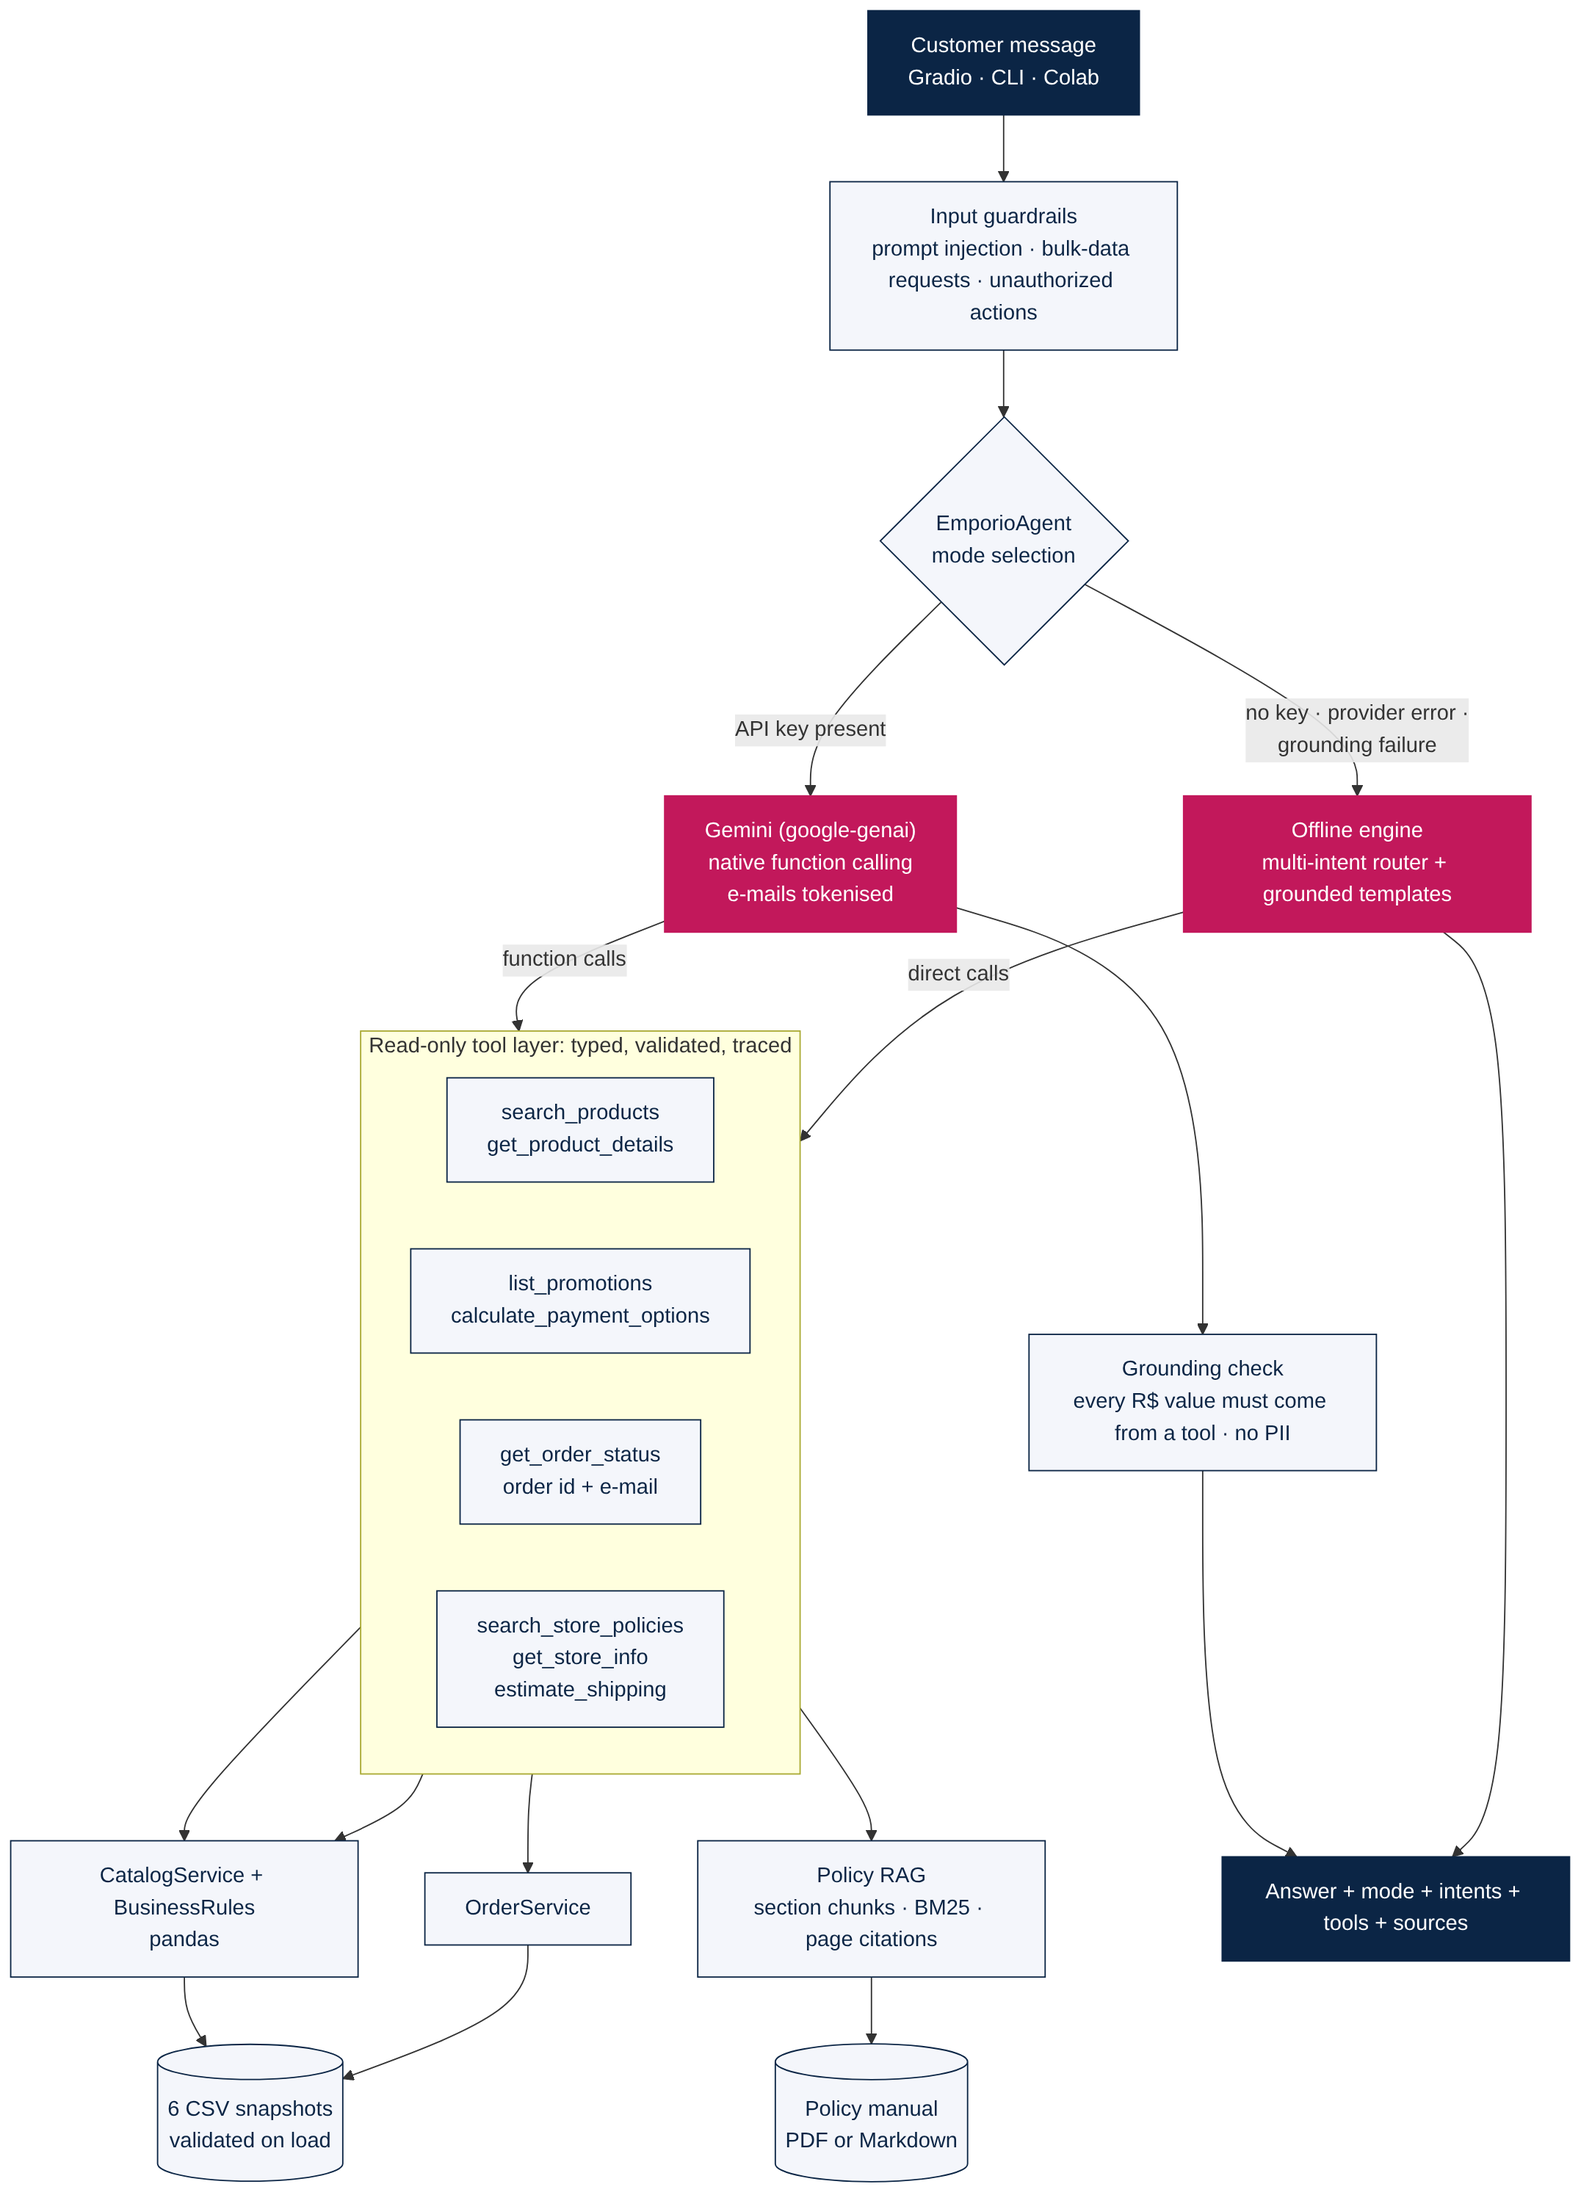
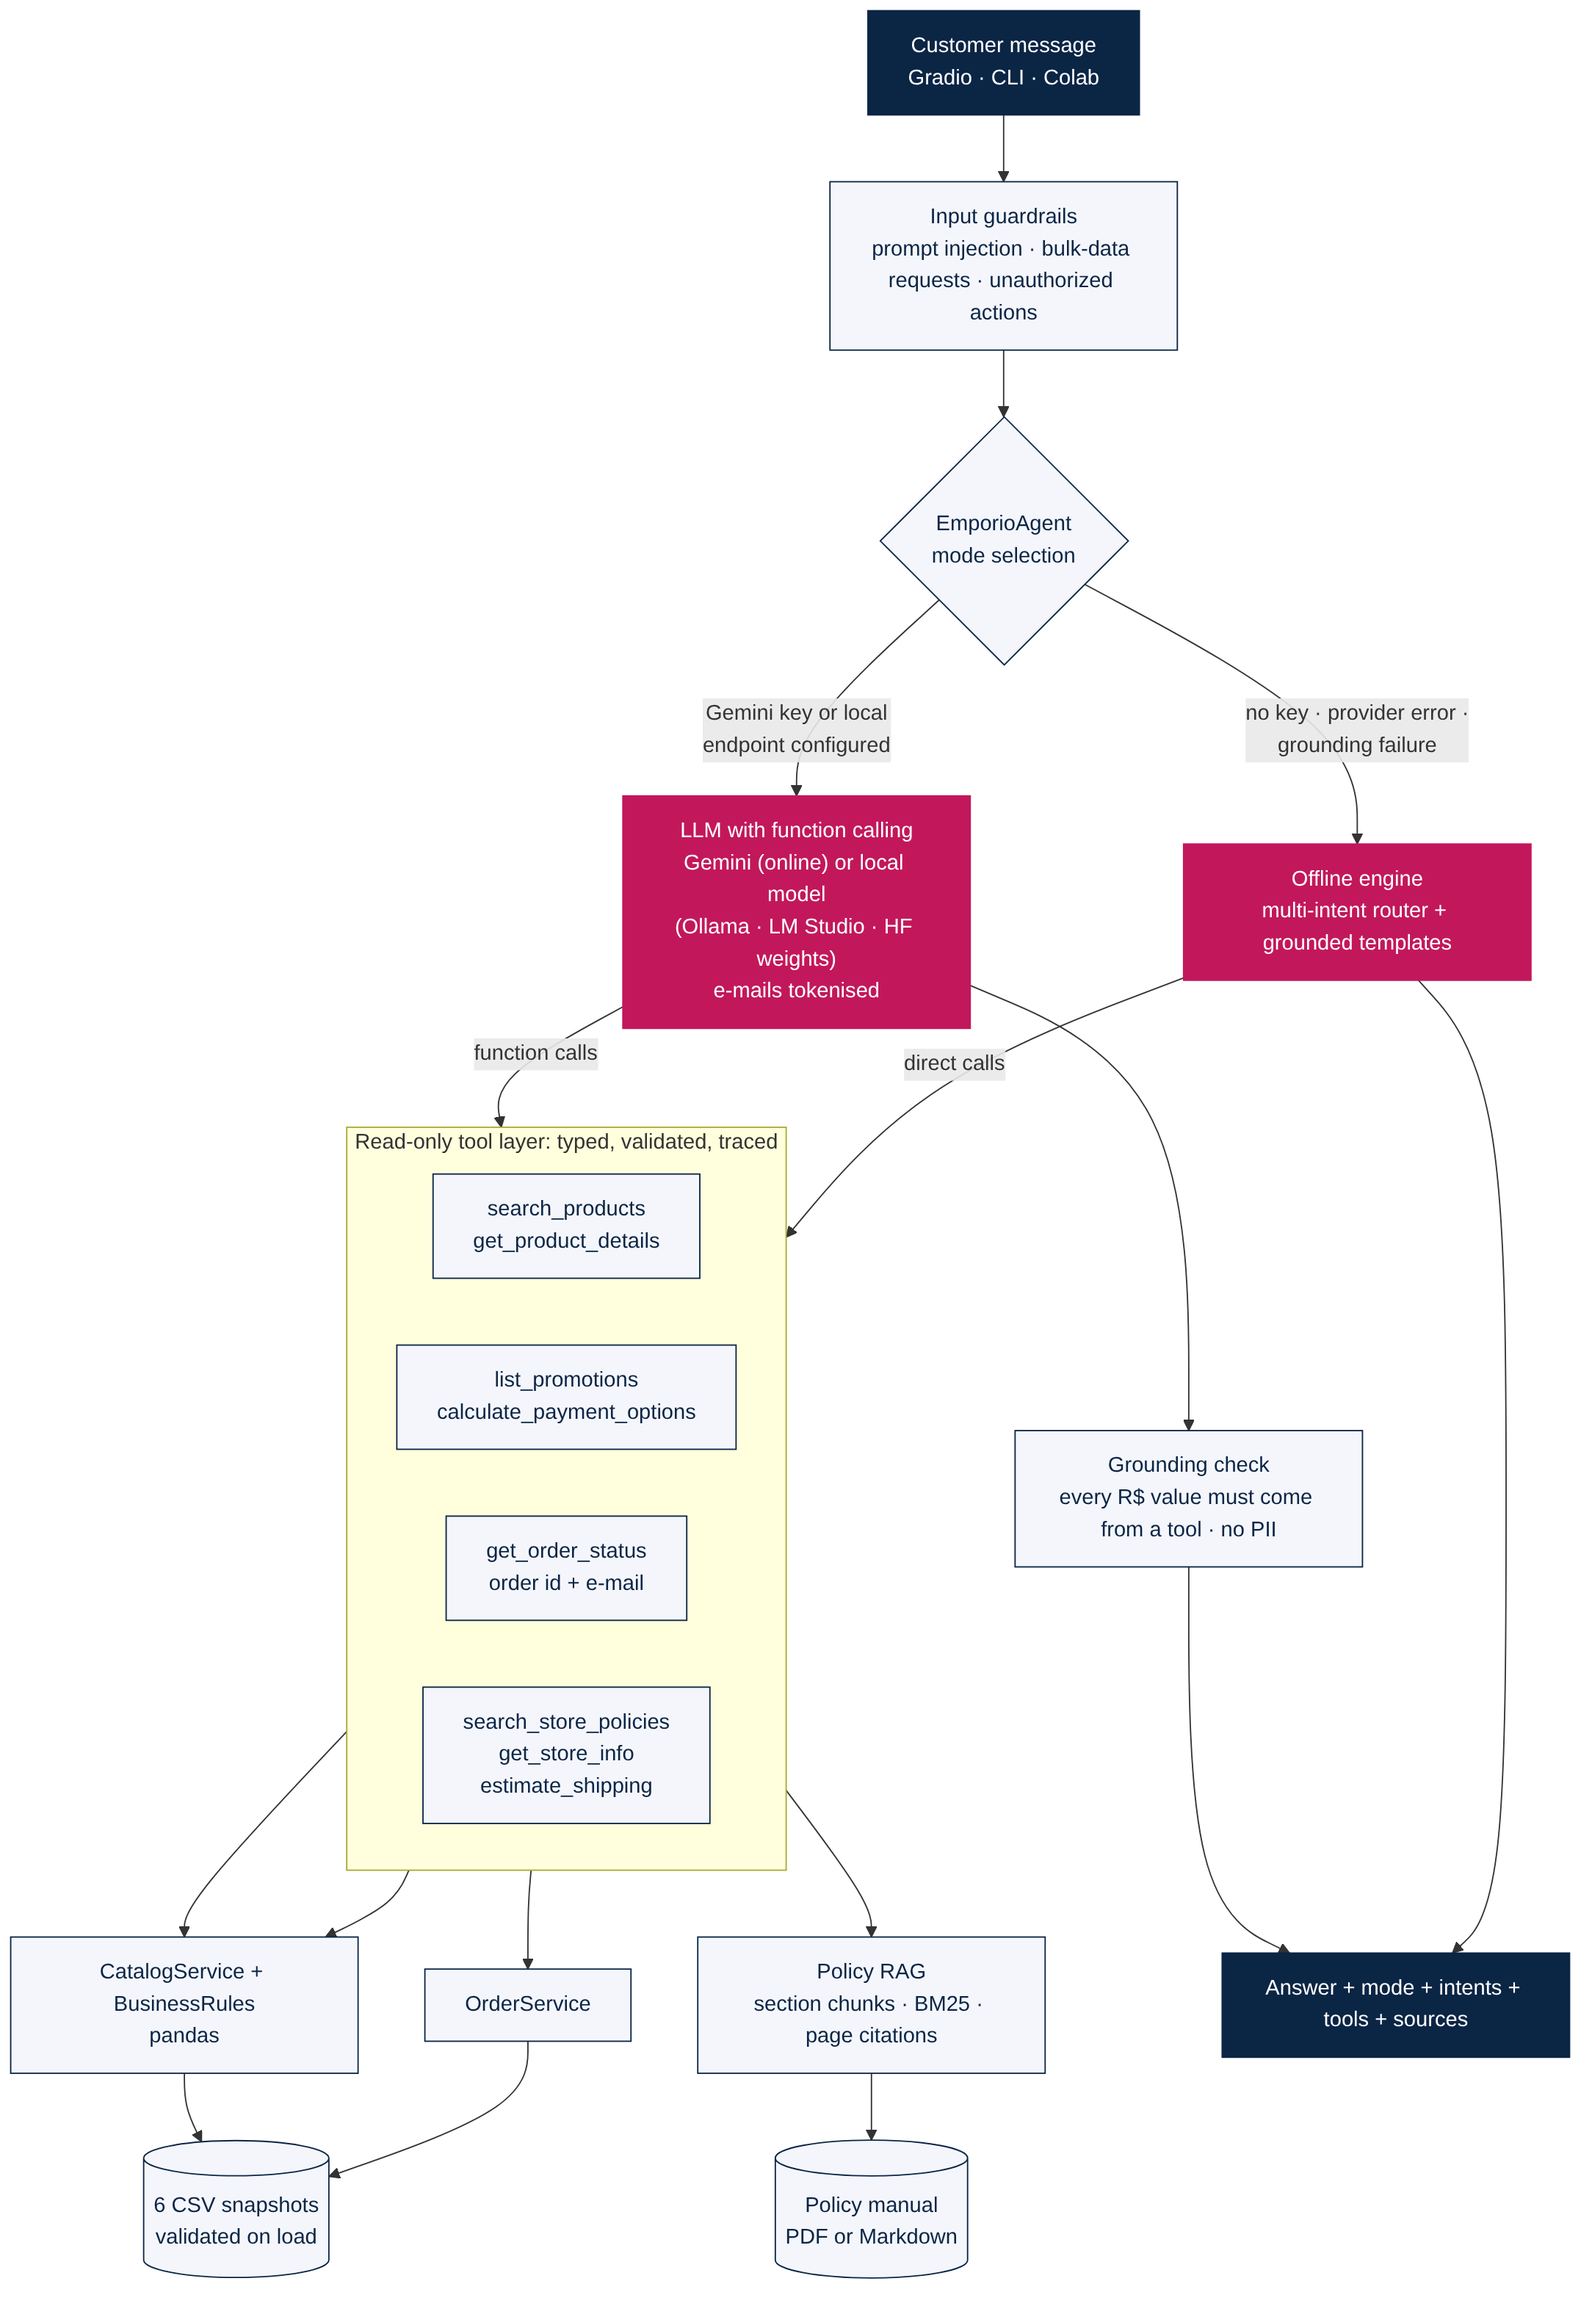
UI: policy retrieval explorer tab, team case note in the evidence panel, active model in the header

diff --git a/app.py b/app.py
@@ -81,6 +81,12 @@ CSS = """
 .evidence .chip.mode-offline { background:#e9eef7; }
 .evidence ul { margin:4px 0 0 18px; padding:0; } .evidence li { margin:2px 0; color:var(--ink); }
 .evidence .handoff { margin-top:10px; padding:8px 10px; border-radius:10px; background:#fff6e5; color:#7a4b00; }
+.evidence .summary { margin-top:8px; padding:8px 10px; border-radius:10px; background:#eef3ff; color:var(--ink);
+                    font-size:.82rem; line-height:1.45; }
+.policy-hit { border:1px solid var(--line); border-radius:12px; padding:12px 14px; margin:8px 0; background:#fff; }
+.policy-hit .cite { color:var(--magenta); font-weight:600; font-size:.85rem; }
+.policy-hit .score { float:right; color:var(--muted); font-size:.78rem; }
+.policy-hit pre { white-space:pre-wrap; font-family:inherit; margin:6px 0 0; color:var(--ink); font-size:.88rem; }
 .evidence .warn { margin-top:8px; padding:8px 10px; border-radius:10px; background:#fdeceb; color:#8a1f12; }
 .welcome { text-align:center; color:var(--muted); padding:30px 10px; }
 .welcome b { color:var(--navy); }
@@ -101,7 +107,8 @@ def evidence_html(result=None, error: str | None = None) -> str:
     if result is None:
         return ('<div class="evidence"><h4>Evidências da resposta</h4><div class="row">Envie uma pergunta para ver '
                 'o modo usado, as intenções detectadas, as ferramentas consultadas e as fontes de cada resposta.</div></div>')
-    mode = "Gemini (function calling)" if result.mode == "gemini" else "Determinístico (sem LLM)"
+    mode = {"gemini": "Gemini (function calling)", "local": "Modelo local / OpenAI-compatível (function calling)"}.get(
+        result.mode, "Determinístico (sem LLM)")
     intents = "".join(f'<span class="chip">{html.escape(i)}</span>' for i in result.intents) or "—"
     counts: dict[str, int] = {}
     for call in result.tool_calls:
@@ -112,6 +119,10 @@ def evidence_html(result=None, error: str | None = None) -> str:
     extra = ""
     if result.handoff:
         extra += '<div class="handoff">🤝 Caso encaminhado para atendimento humano.</div>'
+        if getattr(result, "handoff_summary", None):
+            note = html.escape(result.handoff_summary).replace("\n", "<br>")
+            extra += (f'<div class="summary"><b>📝 Resumo para a equipe</b> (§7.3 — registrar e encaminhar; não é '
+                      f'enviado automaticamente)<br>{note}</div>')
     for warning in result.warnings:
         extra += f'<div class="warn">⚠ {html.escape(warning)}</div>'
     return (f'<div class="evidence"><h4>Evidências da resposta</h4>'
@@ -124,7 +135,7 @@ def build_ui(agent: EmporioAgent) -> gr.Blocks:
     settings = agent.settings
     sample = settings.uses_sample_data
     data_label = "Dados sintéticos (públicos)" if sample else "Dados originais do desafio"
-    mode_label = f"Gemini · {settings.gemini_model}" if agent.mode == "gemini" else "Modo determinístico (sem LLM)"
+    mode_label = agent.model_label if agent.mode != "offline" else "Modo determinístico (sem LLM)"
     actions = SAMPLE_QUICK_ACTIONS if sample else QUICK_ACTIONS
     catalog = agent.catalog
     categories = ["Todas"] + list(catalog.categories["category"])
@@ -192,6 +203,17 @@ def build_ui(agent: EmporioAgent) -> gr.Blocks:
         return pd.DataFrame(rows, columns=["Produto", "Categoria", "Preço", "De", "Promoção", "PIX", "Cartão",
                                            "Situação", "Estoque"])
 
+    def policy_search(query: str) -> str:
+        if not query or not query.strip():
+            return "<p class='note'>Digite uma dúvida para ver quais seções do manual o agente recupera.</p>"
+        hits = agent.policies.search(query, top_k=3)
+        if not hits:
+            return ("<p class='note'>Nenhuma seção relevante encontrada — o agente trataria a pergunta como fora do "
+                    "escopo das políticas.</p>")
+        return "".join(f'<div class="policy-hit"><span class="score">BM25 {h["score"]:.2f}</span>'
+                       f'<span class="cite">{html.escape(h["citation"])}</span> — <b>{html.escape(h["title"])}</b>'
+                       f'<pre>{html.escape(h["text"])}</pre></div>' for h in hits)
+
     def promotions_table() -> pd.DataFrame:
         rows = [{"Produto": r["product"], "Campanha": r["campaign"], "Desconto": f"{r['discount_percent']:g}%",
                  "De": brl(r["list_price"]), "Por": brl(r["promotional_price"]),
@@ -249,6 +271,19 @@ def build_ui(agent: EmporioAgent) -> gr.Blocks:
                                      column_widths=["22%", "11%", "10%", "9%", "13%", "10%", "10%", "9%", "6%"])
                 gr.Markdown("#### 💸 Promoções ativas")
                 gr.Dataframe(value=promotions_table(), interactive=False, wrap=True, elem_id="promo-table")
+            with gr.Tab("📜 Políticas"):
+                gr.Markdown("Veja **o que o agente recupera do manual de políticas** (RAG) antes de responder: as 3 "
+                            "seções mais relevantes, com seção e página para citação.")
+                with gr.Row():
+                    pquery = gr.Textbox(label="Pergunta sobre políticas", scale=5,
+                                        placeholder="ex.: posso devolver um produto comprado online?")
+                    pbtn = gr.Button("Buscar no manual", variant="primary", scale=1)
+                gr.Examples(["Me arrependi da compra, posso devolver?", "Qual o prazo de garantia?",
+                             "O desconto do PIX vale em produto em promoção?", "Frete para outra cidade",
+                             "Posso parcelar em 12x?", "Can I return an item?"], inputs=pquery, label="Exemplos")
+                presults = gr.HTML(policy_search(""))
+                with gr.Accordion(f"Todas as {len(agent.policies.chunks)} seções indexadas", open=False):
+                    gr.Markdown("\n".join(f"- **{c.citation()}** — {c.title}" for c in agent.policies.chunks))
             with gr.Tab("🧠 Como funciona"):
                 with gr.Row():
                     with gr.Column(scale=5):
@@ -266,6 +301,14 @@ def build_ui(agent: EmporioAgent) -> gr.Blocks:
                     with gr.Column(scale=4):
                         gr.Markdown(f"### Achados de qualidade dos dados\n{findings}\n\n"
                                     f"### Conflitos encontrados no manual\n{conflicts}\n\n"
+                                    "### Modelos suportados\n"
+                                    "| Modo | Quando é usado |\n|---|---|\n"
+                                    "| **Gemini** (online, `google-genai`) | `GEMINI_API_KEY` configurada |\n"
+                                    "| **Local / OpenAI-compatível** (Ollama, LM Studio, llama.cpp — modelos do "
+                                    "Hugging Face) | `LOCAL_LLM_BASE_URL` configurada |\n"
+                                    "| **Determinístico** (sem LLM) | sem modelo, falha do provedor ou resposta reprovada "
+                                    "na checagem de fundamentação |\n\n"
+                                    f"**Ativo agora:** {html.escape(mode_label)}\n\n"
                                     f"### Fontes\n- {len(agent.policies.chunks)} seções indexadas de "
                                     f"`{settings.policy_path.name}`\n- {agent.store.report.row_counts.get('products', 0)} "
                                     f"produtos, {agent.store.report.row_counts.get('orders', 0)} pedidos")
@@ -276,6 +319,8 @@ def build_ui(agent: EmporioAgent) -> gr.Blocks:
         for chip, (_, question) in zip(chips, actions):
             chip.click(lambda q=question: q, None, box).then(respond, [box, chatbot, session],
                                                              [box, chatbot, session, panel])
+        pbtn.click(policy_search, pquery, presults)
+        pquery.submit(policy_search, pquery, presults)
         filters = [cat, price, only, query]
         for component in filters:
             component.change(catalog_table, filters, table)
